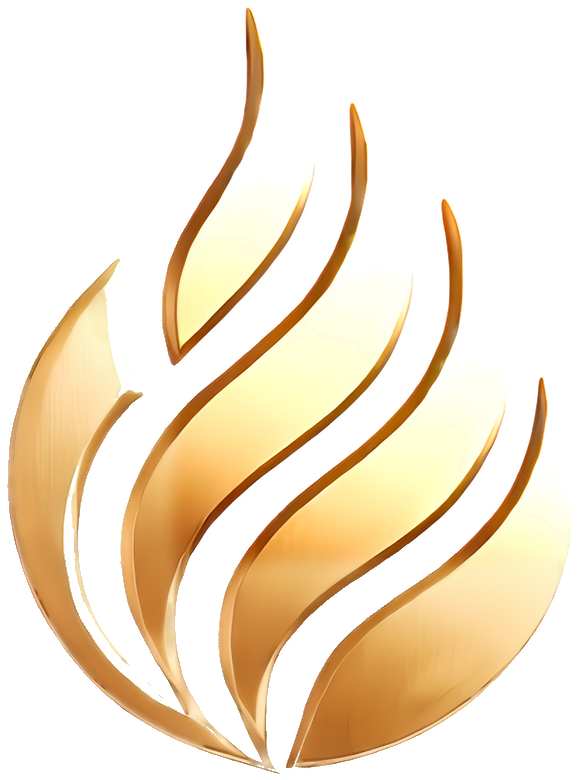
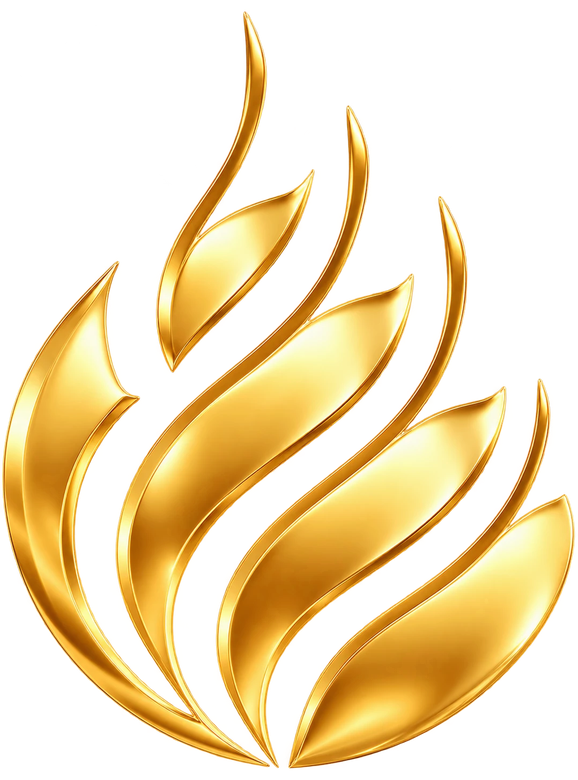
feat: founder-approved polished gold flame mark
The flame mark is replaced with the founder's generated artwork: one
continuous polished gold across every tongue, warm champagne highlights,
no black, no silver, crisp drawn edges, and true transparency. The
image was fitted to the app's 578 by 780 canvas with the channel gaps
fully open, and the line-fire mask was regenerated with the established
recipe, end gains, escape plumes, and border taper, adapting to the new
geometry. Verified live at both render sizes: fire moving through the
channels (right 12 percent motion density 0.65), no boundary line.
434 tests passing, analyzer and format clean.

Claude-Session: https://claude.ai/code/session_012PX7zNEHgTtrYdjiWdwYg1

diff --git a/demo/flutter_bootstrap.js b/demo/flutter_bootstrap.js
@@ -42,6 +42,6 @@ _flutter.buildConfig = {"engineRevision":"a804b261645ef8c13eb3d5c44a5c2fb0340c55
 
 _flutter.loader.load({
   serviceWorkerSettings: {
-    serviceWorkerVersion: "778202215" /* Flutter's service worker is deprecated and will be removed in a future Flutter release. */
+    serviceWorkerVersion: "2837505314" /* Flutter's service worker is deprecated and will be removed in a future Flutter release. */
   }
 });
